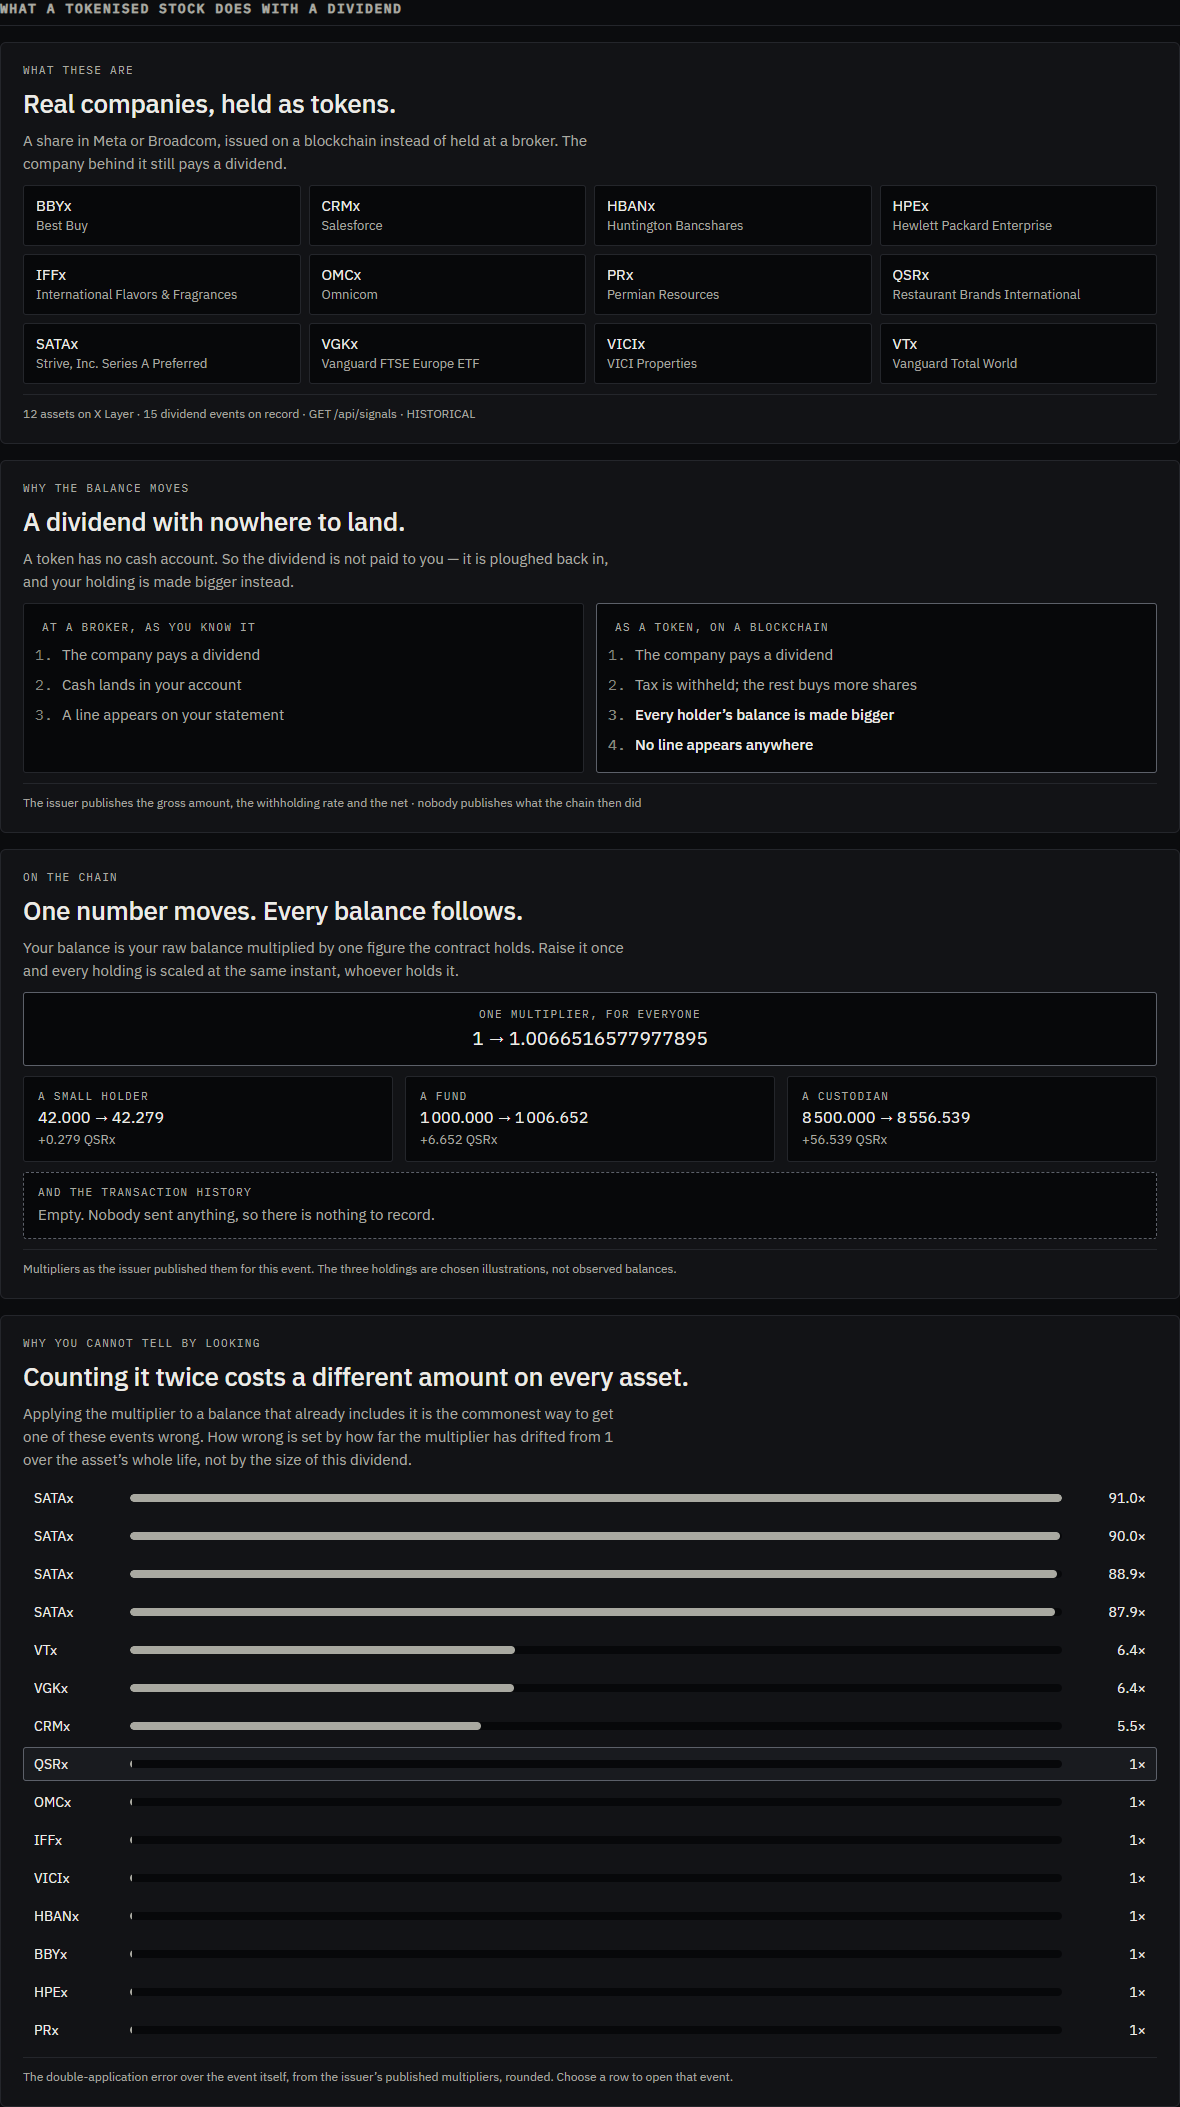
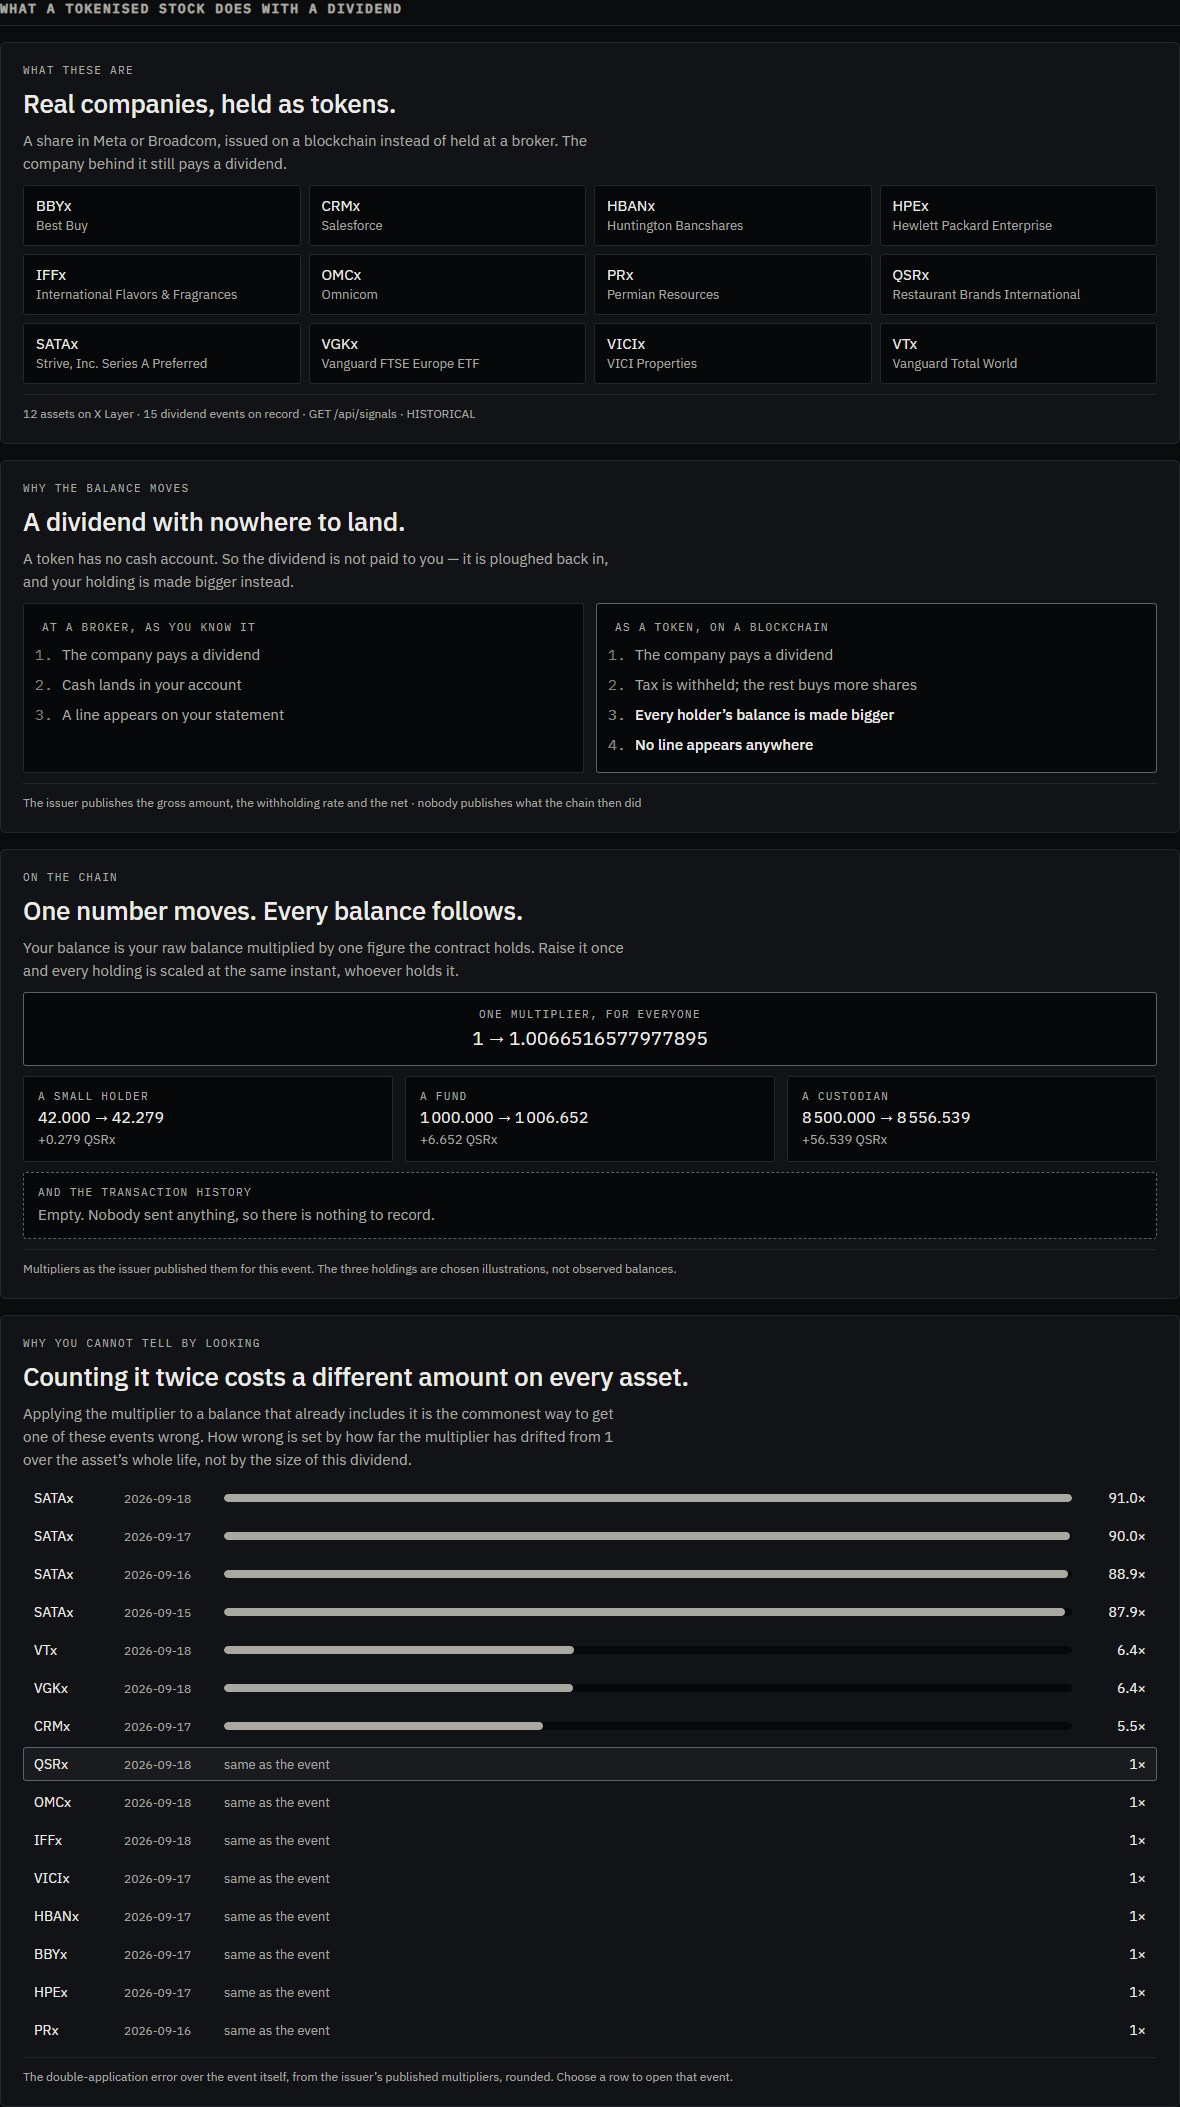
Three screens that looked broken, and the reasons they did
A bar of zero width in a full-width track. The spread table drew the ratio on
a log scale normalised to the worst offender, so the seven assets whose
multiplier is still 1 rendered as a 2 px nub in a 932 px track - which reads
as a chart that failed, not as 'no amplification'. Those rows now say 'same as
the event' in words. Each row is also dated: four SATAx rows with nothing to
tell them apart read as duplicated data rather than as four separate
dividends.

Red for a thing that did not fail. The observations chart drew the issuer's
effective time in --invalid, in a system where red means a failed check, stale
evidence or a rejected gate. It is the anchor the chart is read against, so an
ordinary dividend looked like an error. Marker and legend swatch are --ink now.

An axis labelled with times nothing was observed at. When every observation
shares one instant - the issuer's before-and-after step with no on-chain read -
the code invents a minute either side so the dots have somewhere to sit, and
then printed those two invented times as axis labels. On a screen whose whole
discipline is not showing what was not observed, that was the worst of the
three. One instant now gets one label. The legend also stops advertising an
on-chain series when no on-chain read was recorded.

And one fact stated three times. Where every figure in a section is absent for
the same single reason, the section says it once and the cards drop the bullet
[…]

diff --git a/apps/web/src/market/Observations.tsx b/apps/web/src/market/Observations.tsx
@@ -71,8 +71,14 @@ export function Observations({ points, eventMarkerAt, note, chainWithheld, chain
 
         {marker !== null && (
           <g>
-            <line x1={x(marker)} x2={x(marker)} y1={PAD.top - 12} y2={H - PAD.bottom} stroke="var(--invalid)" strokeWidth="2" />
-            <text x={x(marker)} y={PAD.top - 16} textAnchor="middle" fontSize="10" fontFamily="var(--font-mono)" fill="var(--invalid)">
+            {/*
+              Not `--invalid`. Red means a thing failed or is not to be trusted — a failed check,
+              stale evidence, a rejected gate. The issuer's effective time is none of those: it is
+              the anchor the whole chart is read against, and drawing it in red made an ordinary
+              dividend look like an error.
+            */}
+            <line x1={x(marker)} x2={x(marker)} y1={PAD.top - 12} y2={H - PAD.bottom} stroke="var(--ink)" strokeWidth="1.5" />
+            <text x={x(marker)} y={PAD.top - 16} textAnchor="middle" fontSize="10" fontFamily="var(--font-mono)" fill="var(--ink-secondary)">
               EFFECTIVE
             </text>
           </g>
@@ -91,21 +97,39 @@ export function Observations({ points, eventMarkerAt, note, chainWithheld, chain
           );
         })}
 
-        <text x={PAD.left} y={H - PAD.bottom + 16} fontSize="10" fontFamily="var(--font-mono)" fill="var(--ink-muted)">
-          {fullTime(new Date(tMin).toISOString())}
-        </text>
-        <text x={W - PAD.right} y={H - PAD.bottom + 16} textAnchor="end" fontSize="10" fontFamily="var(--font-mono)" fill="var(--ink-muted)">
-          {fullTime(new Date(tMax).toISOString())}
-        </text>
+        {/*
+          When every observation shares one instant — the issuer's before-and-after step, with no
+          on-chain read recorded — `tMin` and `tMax` are a minute invented either side so the dots
+          have somewhere to sit. Labelling the axis with those two times put clock readings on
+          screen that nothing was observed at, on a screen whose whole point is not showing what was
+          not observed. One instant gets one label, under the points it belongs to.
+        */}
+        {span > 0 ? (
+          <>
+            <text x={PAD.left} y={H - PAD.bottom + 16} fontSize="10" fontFamily="var(--font-mono)" fill="var(--ink-muted)">
+              {fullTime(new Date(tMin).toISOString())}
+            </text>
+            <text x={W - PAD.right} y={H - PAD.bottom + 16} textAnchor="end" fontSize="10" fontFamily="var(--font-mono)" fill="var(--ink-muted)">
+              {fullTime(new Date(tMax).toISOString())}
+            </text>
+          </>
+        ) : (
+          <text x={x(tMinRaw)} y={H - PAD.bottom + 16} textAnchor="middle" fontSize="10" fontFamily="var(--font-mono)" fill="var(--ink-muted)">
+            {fullTime(new Date(tMinRaw).toISOString())} · one instant
+          </text>
+        )}
       </svg>
 
       <div className="mk-chart-legend">
         <span className="mk-key is-issuer">
           <i /> Issuer published
         </span>
-        <span className="mk-key is-chain">
-          <i /> multiplier() on X Layer
-        </span>
+        {/* a key for a series with no members advertises a read that was never recorded */}
+        {(usable.some((p) => p.source !== "ISSUER") || chainReadCount > 0) && (
+          <span className="mk-key is-chain">
+            <i /> multiplier() on X Layer
+          </span>
+        )}
         <span className="mk-key is-event">
           <i /> Effective time
         </span>

diff --git a/apps/web/src/market/market.css b/apps/web/src/market/market.css
@@ -180,7 +180,18 @@
 .mk-figure.is-missing {
   background: var(--canvas-inset);
   border-style: dashed;
+  padding: 14px 16px;
+  gap: 8px;
 }
+/*
+ * An absent figure is a footnote, not a headline. Four of them at full weight - which is what a
+ * section reads like when the issuer publishes no price, and what the last two sections always read
+ * like because no executable quote exists anywhere - made the screen look broken rather than honest.
+ * They stay on screen, in full, with their inputs and limitations: only their weight drops.
+ */
+.mk-figure.is-missing .mk-figure-head { font-size: 14px; line-height: 20px; font-weight: 400; color: var(--ink-secondary); }
+.mk-figure.is-missing .mk-value.is-none { font-size: 15px; }
+.mk-figure.is-missing .mk-missing { font-size: 13px; line-height: 19px; }
 
 .mk-label {
   font-family: var(--font-mono);
@@ -347,7 +358,9 @@ details.mk-more[open] > summary {
   width: 2px;
   height: 12px;
   border-radius: 0;
-  background: var(--invalid);
+  /* matches the marker on the chart, and for the same reason: the effective time is the anchor
+     the chart is read against, not a failure, so it is never `--invalid` */
+  background: var(--ink);
 }
 
 /* ---------------------------------------------------------------- tables */
@@ -810,7 +823,7 @@ details.mk-more[open] > summary {
 .mk-spread-row {
   width: 100%;
   display: grid;
-  grid-template-columns: 84px minmax(0, 1fr) 72px;
+  grid-template-columns: 78px 88px minmax(0, 1fr) 62px;
   align-items: center;
   gap: 12px;
   padding: 7px 10px;
@@ -829,6 +842,9 @@ details.mk-more[open] > summary {
 .mk-spread-bar { display: block; height: 8px; background: var(--canvas-inset); border-radius: var(--radius-full); overflow: hidden; }
 .mk-spread-bar > span { display: block; height: 100%; min-width: 2px; background: var(--ink-secondary); border-radius: var(--radius-full); }
 .mk-spread-x { font-size: 14px; color: var(--ink); text-align: right; }
+.mk-spread-when { font-size: 12px; color: var(--ink-secondary); }
+/* no amplification to draw: the words, not an empty track that reads as a failed chart */
+.mk-spread-same { font-size: 13px; color: var(--ink-secondary); }
 
 @media (max-width: 1023px) {
   .mk-assets { grid-template-columns: repeat(3, minmax(0, 1fr)); }
@@ -838,5 +854,6 @@ details.mk-more[open] > summary {
   .mk-compare { grid-template-columns: minmax(0, 1fr); }
   .mk-fan { grid-template-columns: minmax(0, 1fr); }
   .mk-band-h { font-size: 22px; line-height: 28px; }
-  .mk-spread-row { grid-template-columns: 68px minmax(0, 1fr) 58px; gap: 8px; }
+  .mk-spread-row { grid-template-columns: 62px minmax(0, 1fr) 52px; gap: 8px; }
+  .mk-spread-when { display: none; }
 }

diff --git a/apps/web/src/market/Primer.tsx b/apps/web/src/market/Primer.tsx
@@ -174,9 +174,12 @@ function Spread({ rows, onChoose, chosenId }: { rows: MarketSignalRow[]; onChoos
       const o = Number(r.signal.facts?.multiplierOld);
       const n = Number(r.signal.facts?.multiplierNew);
       if (!Number.isFinite(o) || !Number.isFinite(n) || n === o || o <= 0) return null;
-      return { id: r.signal.id, symbol: r.signal.asset.symbol, ratio: ((n - 1) * o) / (n - o) };
+      // several events can share an asset, so each row is dated: four SATAx rows with nothing to
+      // tell them apart read as duplicated data rather than as four separate dividends
+      const when = r.signal.observedAt.slice(0, 10);
+      return { id: r.signal.id, symbol: r.signal.asset.symbol, when, ratio: ((n - 1) * o) / (n - o) };
     })
-    .filter((x): x is { id: string; symbol: string; ratio: number } => x !== null)
+    .filter((x): x is { id: string; symbol: string; when: string; ratio: number } => x !== null)
     .sort((a, b) => b.ratio - a.ratio);
   const worst = scored[0];
   if (worst === undefined) return null;
@@ -198,9 +201,20 @@ function Spread({ rows, onChoose, chosenId }: { rows: MarketSignalRow[]; onChoos
               aria-current={s.id === chosenId ? "true" : undefined}
             >
               <span className="mono mk-spread-sym">{s.symbol}</span>
-              <span className="mk-spread-bar" aria-hidden="true">
-                <span style={{ width: `${(Math.log10(s.ratio) / Math.log10(worst.ratio || 10)) * 100}%` }} />
-              </span>
+              <span className="mono mk-spread-when">{s.when}</span>
+              {/*
+                An asset whose multiplier is still 1 has no amplification to draw, and a bar of zero
+                width in a full-width track reads as a chart that failed rather than as "none". It
+                gets the words instead. Above 1 the scale is logarithmic, because the spread runs
+                across two orders of magnitude and a linear bar would flatten everything below 10×.
+              */}
+              {s.ratio < 1.05 ? (
+                <span className="mk-spread-same">same as the event</span>
+              ) : (
+                <span className="mk-spread-bar" aria-hidden="true">
+                  <span style={{ width: `${(Math.log10(s.ratio) / Math.log10(worst.ratio || 10)) * 100}%` }} />
+                </span>
+              )}
               <span className="mono mk-spread-x">{s.ratio < 1.05 ? "1×" : `${s.ratio.toFixed(1)}×`}</span>
             </button>
           </li>

diff --git a/apps/web/src/market/MarketDesk.tsx b/apps/web/src/market/MarketDesk.tsx
@@ -238,7 +238,13 @@ export function MarketDesk() {
 
       {sections
         .filter((s) => s.figures.length > 0)
-        .map((s) => (
+        .map((s) => {
+          // every figure in this section absent for the same one reason: say it once, at the top,
+          // and let the cards drop the bullet that would repeat it
+          const reasons = new Set(s.figures.flatMap((f) => f.missing));
+          const only = [...reasons][0];
+          const shared = s.figures.every((f) => f.label === "INSUFFICIENT_DATA") && reasons.size === 1 && only !== undefined ? only : null;
+          return (
           <section className="mk-section" key={s.title} data-testid="market-figure-section">
             <h2 className="mk-h2">{s.title}</h2>
             {s.note && <p className="mk-note">{s.note}</p>}
@@ -248,13 +254,24 @@ export function MarketDesk() {
                 venue, so everything in this section is a valuation and none of it is a quote.
               </p>
             )}
+            {/*
+              Every figure in this section is absent for the same one reason, so the reason is worth
+              saying once at the top rather than repeating it inside each card. The cards keep their
+              own missing-input lists: this states the shared cause, it does not replace them.
+            */}
+            {shared !== null && (
+              <p className="mk-note mk-section-why" data-testid="market-section-why">
+                Nothing in this section can be computed: {shared}.
+              </p>
+            )}
             <div className="mk-figures">
               {s.figures.map((f) => (
-                <FigureCard key={f.key} figure={f} onOpenEvidence={openEvidence} />
+                <FigureCard key={f.key} figure={f} onOpenEvidence={openEvidence} reasonShownAbove={shared !== null} />
               ))}
             </div>
           </section>
-        ))}
+          );
+        })}
 
       <section className="mk-verdict" data-testid="market-verdict" data-verdict={m.stillInteresting.verdict}>
         <p className="mk-verdict-q">Separately: is there a trade in this event, once the data, the adjustments and the costs have been checked?</p>

diff --git a/apps/web/test/market.test.tsx b/apps/web/test/market.test.tsx
@@ -323,3 +323,30 @@ describe("how much counting it twice costs, asset by asset", () => {
     expect(html).toContain('aria-current="true"');
   });
 });
+
+describe("a section where every figure is absent for the same reason", () => {
+  const noPrice: Figure = {
+    ...missing,
+    key: "POSITION_VALUE",
+    headline: "What the rebase is worth cannot be stated without a price.",
+    missing: ["the issuer is publishing no reference price for this asset right now"],
+    inputs: [{ name: "reference price", value: null, unit: "USD", evidenceId: "EV-PRICE", observedAt: null }],
+  };
+
+  it("states the reason once and drops the bullet that would repeat it", () => {
+    const repeated = render(createElement(FigureCard, { figure: noPrice, onOpenEvidence: noop }));
+    expect(repeated).toContain("the issuer is publishing no reference price");
+    const deduped = render(createElement(FigureCard, { figure: noPrice, onOpenEvidence: noop, reasonShownAbove: true }));
+    expect(deduped).not.toContain("the issuer is publishing no reference price");
+    // everything else the card carries stays: the label, the absence and the disclosures
+    expect(deduped).toContain("INSUFFICIENT DATA");
+    expect(deduped).toContain("Not shown");
+    expect(deduped).toContain(noPrice.headline);
+    expect(deduped).toContain("Inputs (1)"); // the disclosure is uppercased by CSS, not in the markup
+  });
+
+  it("keeps the missing inputs when the section has not said them, which is the normal case", () => {
+    const html = render(createElement(FigureCard, { figure: missing, onOpenEvidence: noop }));
+    for (const m of missing.missing) expect(html).toContain(m);
+  });
+});

diff --git a/tests/e2e/market-desk.spec.ts b/tests/e2e/market-desk.spec.ts
@@ -162,12 +162,24 @@ test("the insufficient-data fallback: no price, so no figure in money, and the b
   // the recording holds no reference price for this asset
   await expect(row(page, "Issuer reference price")).toContainText("none published");
 
+  // Both figures in this section are absent for the same one reason, so the section says it once
+  // rather than each card repeating it — three statements of one fact read as noise, not an answer.
+  const why = page.getByTestId("market-section-why");
+  await expect(why).toHaveCount(1);
+  await expect(why).toContainText("Nothing in this section can be computed");
+  await expect(why).toContainText("no reference price");
+
   for (const key of ["POSITION_VALUE", "IMPLIED_REINVESTMENT_PRICE"]) {
     const f = figureByKey(page, key);
     await expect(f, key).toHaveAttribute("data-label", "INSUFFICIENT_DATA");
     await expect(f, key).toContainText("Not shown");
-    await expect(f, key).toContainText("no reference price");
+    // the card still says what it cannot state, and keeps its inputs; it just does not repeat the cause
+    await expect(f, key).not.toContainText("no reference price");
+    await expect(f, key).toContainText("Inputs");
   }
+
+  // where the reasons differ, every card keeps its own list: the de-duplication is not a blanket rule
+  await expect(figureByKey(page, "QUOTED_SPREAD")).toContainText("no buy-side ask price");
 
   // and the part of the event that needs no price is unaffected
   const impact = figureByKey(page, "BALANCE_IMPACT");

diff --git a/apps/web/src/market/Figures.tsx b/apps/web/src/market/Figures.tsx
@@ -10,7 +10,12 @@ import { Timestamp } from "../primitives/Timestamp";
  * No value on this screen is rendered in the verified colour. None of them is an amount anyone
  * offered, so none of them earns it.
  */
-export function FigureCard({ figure, onOpenEvidence }: { figure: Figure; onOpenEvidence: (id: string) => void }) {
+/**
+ * `reasonShownAbove` is set when every figure in the section is absent for the same single reason
+ * and the section has already said so once. Repeating it inside each card then states one fact
+ * three times, which is what made a section of absences read as noise rather than as an answer.
+ */
+export function FigureCard({ figure, onOpenEvidence, reasonShownAbove = false }: { figure: Figure; onOpenEvidence: (id: string) => void; reasonShownAbove?: boolean }) {
   const label = LABELS[figure.label];
   const missing = figure.label === "INSUFFICIENT_DATA";
   return (
@@ -32,7 +37,7 @@ export function FigureCard({ figure, onOpenEvidence }: { figure: Figure; onOpenE
 
       <p className="mk-figure-head">{figure.headline}</p>
 
-      {missing && figure.missing.length > 0 && (
+      {missing && figure.missing.length > 0 && !reasonShownAbove && (
         <ul className="mk-missing">
           {figure.missing.map((m) => (
             <li key={m}>{m}</li>
